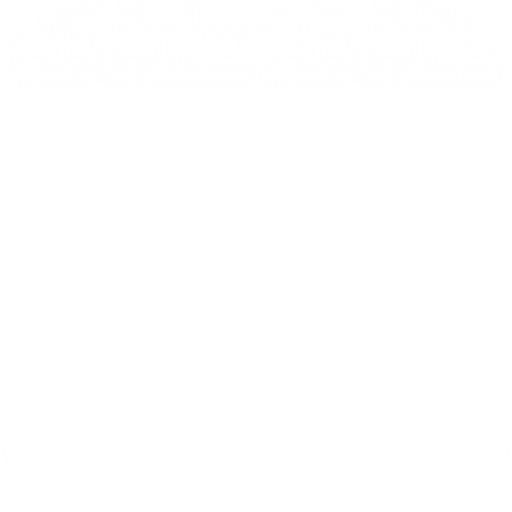
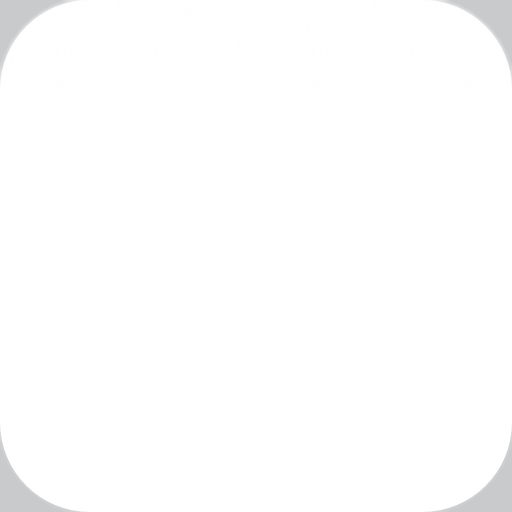
brush up the look a bit.

diff --git a/iphone-ota.css b/iphone-ota.css
@@ -1,10 +1,35 @@
-  .iTunesArtwork {
-        width:      150px;
-        height:     150px;
-  }
-  img.iTunesArtworkMask {
-        margin: 0 0 0 -150px;
-        padding: 0;
-        width:      150px;
-        height:     150px;
-   }   
+body {
+    background-color: #C8CACC;
+    padding: 5px;
+    font-family:Arial,sans;
+}
+h1 {
+    font-size:18pt;
+    margin: 5px;
+}
+#header h1 {
+    margin:0px;
+    padding:0;
+}
+#header p {
+    margin:0px;
+    padding:0;
+}
+h2 {
+    font-size:14pt;
+    margin: 3px;
+    padding: 2px;
+}
+.iTunesArtwork {
+    width:      60px;
+    height:     60px;
+}
+span.iTunesArtwork {
+    padding:0 5px 0 0;
+}
+img.iTunesArtworkMask {
+    margin: 0 0 0 -60px;
+    padding: 0;
+    width:      60px;
+    height:     60px;
+}   
